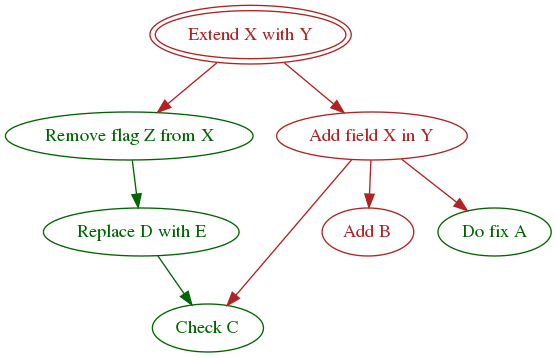
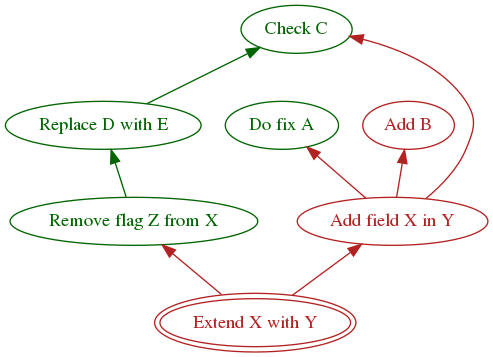
Draw graphs from bottom to top
Following Mikado convention

diff --git a/mikado_graph/mikado_graph.py b/mikado_graph/mikado_graph.py
@@ -75,6 +75,7 @@ def _mikado_pairs(tasks, mikado_pairs, parents):
 
 def draw_mikado_graph(nodes, edges, format):
     graph = Digraph(strict=True, format=format)
+    graph.attr(rankdir='BT')
     for node in nodes: _append_node(graph, node)
     for edge in edges: _append_edge(graph, edge)
     return graph

diff --git a/setup.py b/setup.py
@@ -5,7 +5,7 @@ with open("README.md", "r") as fh:
 
 setuptools.setup(
     name="mikado_graph",
-    version="0.1.3",
+    version="0.1.4",
     author="Salah Missri",
     author_email="syrianspock@gmail.com",
     description="Python tool to draw graphs for Mikado refactoring",

diff --git a/README.md b/README.md
@@ -22,6 +22,7 @@ pip install mikado-graph
 mikado example.txt --view
 ```
 A new window should display the graph below
+
 ![Example graph](https://raw.githubusercontent.com/SyrianSpock/mikado-graph/master/example.png)
 
 Explore the options using `--help`
